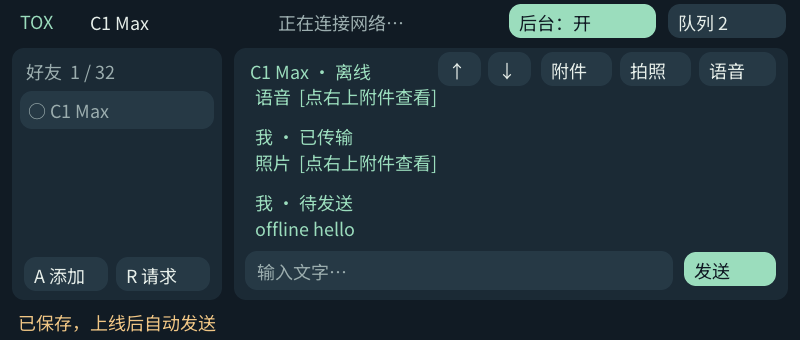
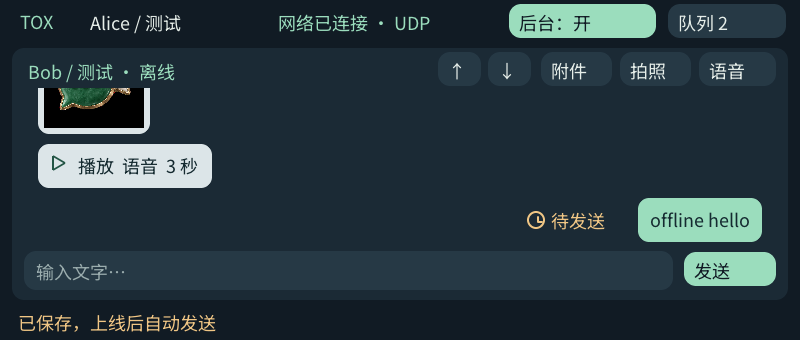
Add Tox chat bubbles, inline media previews and Shift-volume scrolling

diff --git a/tox/src/main.cpp b/tox/src/main.cpp
@@ -22,13 +22,17 @@ constexpr uint32_t bg=0x111b24, surface=0x1b2a35, raised=0x263945, ink=0xe6eee9,
 constexpr uint32_t nav_profile=0x20001,nav_add=0x20002,nav_requests=0x20003,nav_scan=0x20004,nav_zoom1=0x20010,nav_zoom15=0x20011,nav_zoom2=0x20012;
 lv_font_t*font=nullptr;
 std::unique_ptr<chat::Session>engine;
-std::unique_ptr<chat::Media>media;
+std::unique_ptr<chat::Media>media,inline_audio;
+struct BubblePreview {chat::Preview info;lv_image_dsc_t image{};};
+std::map<std::string,BubblePreview>previews;
+lv_obj_t*chat_history=nullptr;int chat_scroll=-1;unsigned rendered_offset=0;
+bool scroll_shortcuts=false;
 lv_image_dsc_t media_descriptor{};lv_obj_t*media_image=nullptr;
 size_t file_index=0,queue_index=0;int queue_confirm=0;uint64_t queue_target=0;
-constexpr uint32_t nav_background=0x20100,nav_photo=0x20101,nav_voice=0x20102,nav_files=0x20103,nav_capture=0x20104,nav_play=0x20105,nav_retry=0x20106,nav_queue=0x20107,nav_cancel_queued=0x20108,nav_resend=0x20109,nav_queue_yes=0x2010a,nav_queue_no=0x2010b,nav_queue_row=0x21100,nav_file_row=0x21000;
+constexpr uint32_t nav_background=0x20100,nav_photo=0x20101,nav_voice=0x20102,nav_files=0x20103,nav_capture=0x20104,nav_play=0x20105,nav_retry=0x20106,nav_queue=0x20107,nav_cancel_queued=0x20108,nav_resend=0x20109,nav_queue_yes=0x2010a,nav_queue_no=0x2010b,nav_queue_row=0x21100,nav_bubble=0x21200,nav_file_row=0x21000;
 chat::Snapshot view;
 enum class Page { Friends, Chat, Add, Profile, Rename, Requests, Delete, Scan, Files, Photo, Voice, Attachment, Queue };
-Page page=Page::Friends,scan_origin=Page::Friends;
+Page page=Page::Friends,scan_origin=Page::Friends,attachment_origin=Page::Files;
 std::unique_ptr<chat::Scanner>scanner;
 chat::ScanView scan_view;
 chat::QrImage own_qr;
@@ -53,18 +57,50 @@ void label(lv_obj_t*p,const std::string&t,int x,int y,int w,int h,uint32_t color
     auto*o=lv_label_create(p);lv_label_set_text(o,t.c_str());lv_label_set_long_mode(o,LV_LABEL_LONG_MODE_WRAP);lv_obj_set_pos(o,x,y);lv_obj_set_size(o,w,h);lv_obj_set_style_text_color(o,lv_color_hex(color),0);lv_obj_set_style_text_font(o,font?font:LV_FONT_DEFAULT,0);
 }
 lv_obj_t*box(int x,int y,int w,int h,uint32_t color=surface){auto*o=lv_obj_create(lv_screen_active());lv_obj_remove_style_all(o);lv_obj_set_pos(o,x,y);lv_obj_set_size(o,w,h);lv_obj_set_style_bg_color(o,lv_color_hex(color),0);lv_obj_set_style_bg_opa(o,LV_OPA_COVER,0);lv_obj_set_style_radius(o,12,0);lv_obj_remove_flag(o,LV_OBJ_FLAG_SCROLLABLE);return o;}
-void button(const char*t,int x,int y,int w,uint32_t k,bool active=false){
+lv_obj_t* button(const char*t,int x,int y,int w,uint32_t k,bool active=false){
     auto*b=box(x,y,w,34,active?accent:raised);lv_obj_add_flag(b,LV_OBJ_FLAG_CLICKABLE);label(b,t,10,6,w-18,23,active?bg:ink);
-    lv_obj_add_event_cb(b,[](lv_event_t*e){key(uint32_t(reinterpret_cast<uintptr_t>(lv_event_get_user_data(e))));},LV_EVENT_CLICKED,reinterpret_cast<void*>(uintptr_t(k)));
+    lv_obj_add_event_cb(b,[](lv_event_t*e){key(uint32_t(reinterpret_cast<uintptr_t>(lv_event_get_user_data(e))));},LV_EVENT_CLICKED,reinterpret_cast<void*>(uintptr_t(k)));return b;
 }
 const chat::Friend*friend_now(){for(auto&f:view.friends)if(f.number==selected)return &f;return nullptr;}
 std::string tail(const std::string&s,size_t bytes){if(s.size()<=bytes)return s;size_t at=s.size()-bytes;while(at<s.size()&&(static_cast<unsigned char>(s[at])&0xc0)==0x80)at++;return "…"+s.substr(at);}
 std::string transfer_status(const std::string&s){if(s=="queued")return "待发送";if(s=="sending")return "发送中";if(s=="unconfirmed")return "未确认";if(s=="complete")return "已传输";if(s=="cancelled")return "已取消";if(s=="failed")return "失败";if(s=="waiting")return "等待接受";if(s=="receiving")return "接收中";return "未完成";}
 std::vector<const chat::Message*> queue_items(){std::vector<const chat::Message*>v;for(auto&m:view.messages)if(m.mine&&m.id&&(m.state=="queued"||m.state=="unconfirmed"||m.state=="failed"))v.push_back(&m);return v;}
 std::string text_status(const std::string&s){if(s=="delivered")return "已送达";if(s=="sent")return "已发出";return transfer_status(s);}
+void status_icon(lv_obj_t*parent,const std::string&state,int x,int y,bool light=false){
+    const bool delivered=state=="delivered",waiting=state=="queued"||state=="sending"||state=="waiting"||state=="receiving";
+    const bool warning=state=="unconfirmed"||state=="failed";
+    const uint32_t color=delivered?0x43c783:waiting||warning?(light?0x805400:amber):(light?0x455b61:muted);
+    auto*icon=lv_obj_create(parent);lv_obj_remove_style_all(icon);lv_obj_set_pos(icon,x,y);lv_obj_set_size(icon,18,18);lv_obj_remove_flag(icon,LV_OBJ_FLAG_SCROLLABLE);
+    lv_obj_set_style_radius(icon,9,0);
+    if(delivered){lv_obj_set_style_bg_color(icon,lv_color_hex(color),0);lv_obj_set_style_bg_opa(icon,LV_OPA_COVER,0);}
+    else if(waiting||warning||state=="cancelled"){lv_obj_set_style_border_width(icon,2,0);lv_obj_set_style_border_color(icon,lv_color_hex(color),0);}
+    static const lv_point_precise_t clock_hand[]={{9,4},{9,9},{13,9}},check[]={{4,9},{7,12},{14,5}},dash[]={{5,9},{13,9}},bang[]={{9,4},{9,10}},dot[]={{9,13},{9,14}};
+    auto line=[&](const lv_point_precise_t*points,unsigned count){auto*o=lv_line_create(icon);lv_line_set_points(o,points,count);lv_obj_set_style_line_width(o,2,0);lv_obj_set_style_line_rounded(o,true,0);lv_obj_set_style_line_color(o,lv_color_hex(delivered?0x10291d:color),0);};
+    if(waiting)line(clock_hand,3);else if(warning){line(bang,2);line(dot,2);}else if(state=="cancelled")line(dash,2);else line(check,3);
+}
+int chat_bubble(lv_obj_t*parent,const chat::Message&m,size_t index,int y,int width){
+    BubblePreview*preview=nullptr;const bool available=!m.file.empty()&&(m.mine||m.state=="complete");
+    if(available){auto it=previews.find(m.file);if(it==previews.end()){BubblePreview p;p.info=chat::preview(c1::data()+"/tox/media",m.file,m.kind);it=previews.emplace(m.file,std::move(p)).first;}preview=&it->second;}
+    bool photo=preview&&m.kind=="photo"&&!preview->info.pixels.empty();
+    bool voice=preview&&m.kind=="voice"&&preview->info.seconds;
+    bool playing=inline_audio&&inline_audio->playing&&inline_audio->file==m.file;
+    const std::string body=photo?"":voice?std::string(playing?"停止":"播放")+"  语音  "+std::to_string(preview->info.seconds)+" 秒":m.text+(m.file.empty()?"":" · 点开查看");
+    lv_point_t size{};lv_text_get_size(&size,body.c_str(),font?font:LV_FONT_DEFAULT,0,3,510,LV_TEXT_FLAG_NONE);
+    const int w=photo?preview->info.width+12:std::clamp<int>(size.x+24+(voice?30:0),58,534),h=photo?preview->info.height+12:std::max<int>(size.y+18,40),x=m.mine?width-w-14:14;
+    const uint32_t fill=m.mine?0x9bddbd:0xdce5e8;
+    auto*b=lv_obj_create(parent);lv_obj_remove_style_all(b);lv_obj_set_pos(b,x,y);lv_obj_set_size(b,w,h);lv_obj_remove_flag(b,LV_OBJ_FLAG_SCROLLABLE);lv_obj_set_style_bg_opa(b,LV_OPA_COVER,0);lv_obj_set_style_bg_color(b,lv_color_hex(fill),0);lv_obj_set_style_radius(b,11,0);
+    if(photo){auto&i=preview->image;if(!i.data){i.header.magic=LV_IMAGE_HEADER_MAGIC;i.header.cf=LV_COLOR_FORMAT_ARGB8888;i.header.w=preview->info.width;i.header.h=preview->info.height;i.header.stride=i.header.w*4;i.data_size=preview->info.pixels.size()*4;i.data=reinterpret_cast<const uint8_t*>(preview->info.pixels.data());}auto*o=lv_image_create(b);lv_obj_set_pos(o,6,6);lv_image_set_src(o,&i);}
+    else{label(b,body,voice?40:12,9,w-(voice?52:24),h-14,0x152a30);lv_obj_set_style_text_line_space(lv_obj_get_child(b,0),3,0);
+        if(voice){static const lv_point_precise_t play[]={{3,2},{3,16},{15,9},{3,2}},pause1[]={{4,3},{4,15}},pause2[]={{12,3},{12,15}};auto line=[&](const lv_point_precise_t*p,unsigned n){auto*l=lv_line_create(b);lv_obj_set_pos(l,12,10);lv_line_set_points(l,p,n);lv_obj_set_style_line_width(l,playing?3:2,0);lv_obj_set_style_line_color(l,lv_color_hex(0x235545),0);};if(playing){line(pause1,2);line(pause2,2);}else line(play,4);}
+    }
+    if(available){lv_obj_add_flag(b,LV_OBJ_FLAG_CLICKABLE);lv_obj_add_event_cb(b,[](lv_event_t*e){key(nav_bubble+uint32_t(reinterpret_cast<uintptr_t>(lv_event_get_user_data(e))));},LV_EVENT_CLICKED,reinterpret_cast<void*>(index));}
+    if(m.mine){int sx=x-111,sy=y+(h-24)/2;status_icon(parent,m.state,sx,sy+3);label(parent,text_status(m.state),sx+24,sy,83,26,m.state=="delivered"?0x43c783:m.state=="queued"||m.state=="unconfirmed"||m.state=="failed"?amber:muted);}
+    return y+h+10;
+}
+
 void erase_utf8(std::string&s){if(s.empty())return;size_t n=s.size()-1;while(n>0&&(static_cast<unsigned char>(s[n])&0xc0)==0x80)n--;s.erase(n);}
 void submit(chat::Command c){if(pending)return;c.token=++token;pending=c.token;pending_action=c.action;if(!engine->submit(c)){pending=0;notice="操作队列繁忙，请稍后再试";}}
-void open_chat(uint32_t n){if(pending)return;selected=n;page=Page::Chat;history_offset=0;engine->submit({chat::Action::Read,n});view=engine->snapshot(selected);paint();}
+void open_chat(uint32_t n){if(pending)return;selected=n;page=Page::Chat;history_offset=0;chat_scroll=-1;engine->submit({chat::Action::Read,n});view=engine->snapshot(selected);paint();}
 void image_source(lv_obj_t*o,lv_image_dsc_t&d,const std::vector<uint32_t>&pixels,unsigned w,unsigned h){
     lv_image_cache_drop(&d);d={};d.header.magic=LV_IMAGE_HEADER_MAGIC;d.header.cf=LV_COLOR_FORMAT_ARGB8888;d.header.w=w;d.header.h=h;d.header.stride=w*4;d.data_size=pixels.size()*4;d.data=reinterpret_cast<const uint8_t*>(pixels.data());lv_image_set_src(o,&d);lv_obj_invalidate(o);
 }
@@ -91,39 +127,44 @@ void sidebar(){
     button("A 添加",24,257,84,nav_add);button("R 请求",116,257,94,nav_requests);
 }
 void paint(){
-    auto*r=lv_screen_active();lv_obj_clean(r);media_image=nullptr;scan_image=nullptr;scan_status=nullptr;scan_focus=nullptr;lv_obj_remove_flag(r,LV_OBJ_FLAG_SCROLLABLE);lv_obj_set_style_bg_color(r,lv_color_hex(bg),0);lv_obj_set_style_text_font(r,font?font:LV_FONT_DEFAULT,0);
+    const bool shortcuts=page==Page::Chat;
+    if(shortcuts!=scroll_shortcuts){
+        if(shortcuts){try{c1::save_private("/tmp/c1max-tox-scroll.pid",std::to_string(getpid())+"\n");scroll_shortcuts=true;}catch(...){notice="滚动快捷键注册失败，请重新打开应用";}}
+        else{unlink("/tmp/c1max-tox-scroll.pid");scroll_shortcuts=false;}
+    }
+    auto*r=lv_screen_active();lv_obj_clean(r);chat_history=nullptr;
+    if(page!=Page::Chat)inline_audio.reset();
+    if(previews.size()>8){for(auto&[file,p]:previews)lv_image_cache_drop(&p.image);previews.clear();}media_image=nullptr;scan_image=nullptr;scan_status=nullptr;scan_focus=nullptr;lv_obj_remove_flag(r,LV_OBJ_FLAG_SCROLLABLE);lv_obj_set_style_bg_color(r,lv_color_hex(bg),0);lv_obj_set_style_text_font(r,font?font:LV_FONT_DEFAULT,0);
     label(r,"TOX",20,9,66,28,accent);label(r,view.name,90,10,182,24);
     label(r,view.status,278,10,225,24,view.online?accent:muted);
     button(view.background?"后台：开":"后台：关",509,4,147,nav_background,view.background);
     if(page==Page::Chat||page==Page::Queue)button(("队列 "+std::to_string(queue_items().size())).c_str(),668,4,118,nav_queue,page==Page::Queue);else button("我的 ID",668,4,118,nav_profile);
     std::string footer;
     if(page==Page::Friends||page==Page::Chat){
-        sidebar();box(234,48,554,252);
         auto*f=friend_now();
         if(page==Page::Friends||!f){
+            sidebar();box(234,48,554,252);
             label(r,"与好友直接对话",256,70,490,28,accent);
             label(r,"添加 Tox ID，或接受收到的好友请求。\n使用实体键盘输入，回车发送文字。\n离线消息先保存，上线后自动发送。",256,117,490,95);
             label(r,"好友请求 "+std::to_string(view.requests.size())+" · 待发送 "+std::to_string(view.queued),256,220,240,25,muted);button("扫码添加",594,243,172,nav_scan);
             footer="W/S 选好友  ·  回车聊天  ·  I 我的 ID  ·  电源返回菜单";
         }else{
-            label(r,f->name+(f->online?" · 在线":" · 离线"),250,59,188,25,accent);
+            box(12,48,776,252);label(r,f->name+(f->online?" · 在线":" · 离线"),28,59,392,25,accent);
             button("↑",438,52,43,LV_KEY_UP);button("↓",488,52,43,LV_KEY_DOWN);
             button("附件",541,52,71,nav_files);button("拍照",620,52,71,nav_photo);button("语音",699,52,77,nav_voice);
             // A bounded, scrollable LVGL history avoids allocating a widget for
             // every stored message. At most six messages are rendered at once.
-            auto*history=box(245,88,532,154,surface);lv_obj_add_flag(history,LV_OBJ_FLAG_SCROLLABLE);lv_obj_set_scroll_dir(history,LV_DIR_VER);
+            auto*history=box(24,88,752,154,surface);lv_obj_add_flag(history,LV_OBJ_FLAG_SCROLLABLE);lv_obj_set_scroll_dir(history,LV_DIR_VER);
             size_t end=view.messages.size()>history_offset?view.messages.size()-history_offset:0;
             size_t begin=end>6?end-6:0;int y=4;
-            if(!end)label(history,"还没有消息，输入第一句话吧。",10,40,506,50,muted);
-            for(size_t i=begin;i<end;i++){
-                auto&m=view.messages[i];std::string prefix=m.mine?"我":"好友";
-                if(!m.file.empty())prefix+=" · "+transfer_status(m.state);
-                else if(m.mine)prefix+=" · "+text_status(m.state);
-                auto*o=lv_label_create(history);lv_label_set_text(o,(prefix+"\n"+m.text+(m.file.empty()?"":"  [点右上附件查看]")).c_str());lv_label_set_long_mode(o,LV_LABEL_LONG_MODE_WRAP);lv_obj_set_pos(o,10,y);lv_obj_set_width(o,505);lv_obj_set_style_text_font(o,font?font:LV_FONT_DEFAULT,0);lv_obj_set_style_text_color(o,lv_color_hex(m.mine?accent:ink),0);lv_obj_update_layout(o);y+=lv_obj_get_height(o)+14;
-            }
-            lv_obj_update_layout(history);if(!history_offset)lv_obj_scroll_to_y(history,lv_obj_get_scroll_bottom(history),LV_ANIM_OFF);
-            box(245,251,428,39,raised);label(r,drafts[selected].empty()?"输入文字…":tail(drafts[selected],92)+"_",257,259,401,26,drafts[selected].empty()?muted:ink);button(pending?"保存中":"发送",684,252,92,LV_KEY_ENTER,true);
-            footer="回车发文字  ·  拍摄键拍照  ·  点语音录音  ·  附件查看 / 接收";
+            if(!end)label(history,"还没有消息，输入第一句话吧。",10,40,726,50,muted);
+            for(size_t i=begin;i<end;i++)y=chat_bubble(history,view.messages[i],i,y,752);
+            lv_obj_update_layout(history);chat_history=history;
+            if(rendered_offset!=history_offset)chat_scroll=-1;rendered_offset=history_offset;
+            lv_obj_scroll_to_y(history,chat_scroll<0?lv_obj_get_scroll_bottom(history):chat_scroll,LV_ANIM_OFF);
+            lv_obj_add_event_cb(history,[](lv_event_t*e){auto*o=static_cast<lv_obj_t*>(lv_event_get_target(e));chat_scroll=history_offset==0&&lv_obj_get_scroll_bottom(o)<=2?-1:lv_obj_get_scroll_y(o);},LV_EVENT_SCROLL,nullptr);
+            box(24,251,649,39,raised);label(r,drafts[selected].empty()?"输入文字…":tail(drafts[selected],132)+"_",36,259,620,26,drafts[selected].empty()?muted:ink);button(pending?"保存中":"发送",684,252,92,LV_KEY_ENTER,true);
+            footer="Shift + 音量＋/− 滚动  ·  黄钟待发 / 灰勾已发出 / 绿勾已送达（非已读）";
         }
     }else if(page==Page::Queue){
         box(12,48,776,252);auto rows=queue_items();if(queue_index>=rows.size())queue_index=rows.empty()?0:rows.size()-1;
@@ -133,7 +174,7 @@ void paint(){
             button("确认",428,249,160,nav_queue_yes,true);button("返回",604,249,164,nav_queue_no);
         }else{
             size_t start=queue_index/4*4;int y=91;
-            for(size_t i=start;i<rows.size()&&i<start+4;i++){auto&m=*rows[i];button((text_status(m.state)+" · "+m.text).c_str(),27,y,746,nav_queue_row+uint32_t(i),i==queue_index);y+=37;}
+            for(size_t i=start;i<rows.size()&&i<start+4;i++){auto&m=*rows[i];auto*b=button((text_status(m.state)+" · "+m.text).c_str(),27,y,746,nav_queue_row+uint32_t(i),i==queue_index);auto*l=lv_obj_get_child(b,0);lv_obj_set_pos(l,38,6);lv_obj_set_width(l,694);status_icon(b,m.state,11,8,i==queue_index);y+=37;}
             if(rows.empty())label(r,"没有待发送的消息。\n好友离线时发送的文字、照片和语音会保存在这里。",30,120,727,79,muted);
             else{
                 auto&m=*rows[queue_index];button(m.state=="queued"?"取消待发":"不再重发",27,255,162,nav_cancel_queued);
@@ -158,7 +199,7 @@ void paint(){
             if(page!=Page::Attachment&&!media->recording&&!media->camera)button("重新拍摄 / 录音",534,224,234,nav_retry);
             button("返回",534,265,234,screen::KEY_EXIT);
         }
-        footer=page==Page::Attachment?"回车播放 / 暂停语音  ·  返回到附件":"拍好或录完后，按确认发送才会传给好友";
+        footer=page==Page::Attachment?(std::string(media&&media->kind=="voice"?"回车播放 / 暂停语音  ·  ":"")+(attachment_origin==Page::Chat?"返回聊天":"返回附件")):"拍好或录完后，按确认发送才会传给好友";
     }else if(page==Page::Files){
         box(12,48,776,252);label(r,"照片与语音 · W/S 选择，回车查看 / 接受",28,58,740,26,accent);
         size_t total=view.transfers.size();for(auto&m:view.messages)if(!m.file.empty())total++;
@@ -215,7 +256,14 @@ void key(uint32_t k){
     dismissed_error=view.error_count;
     if(k==screen::KEY_HOME){screen::quit=true;return;}
     if(k==screen::KEY_MODE)return;
-    if(k==screen::KEY_EXIT){if(pending)return;if(page==Page::Photo||page==Page::Voice||page==Page::Attachment){bool attachment=page==Page::Attachment;stop_media();page=attachment?Page::Files:Page::Chat;}else if(page==Page::Files||page==Page::Queue){if(page==Page::Queue&&queue_confirm)queue_confirm=0;else page=Page::Chat;}else if(page==Page::Scan){stop_scan();page=scan_origin;}else page=Page::Friends;notice.clear();paint();return;}
+    if(k==screen::KEY_FONT_UP||k==screen::KEY_FONT_DOWN){
+        if(page==Page::Chat&&chat_history){bool up=k==screen::KEY_FONT_UP;
+            if(up&&lv_obj_get_scroll_y(chat_history)>0)lv_obj_scroll_by(chat_history,0,100,LV_ANIM_OFF);
+            else if(!up&&lv_obj_get_scroll_bottom(chat_history)>0)lv_obj_scroll_by(chat_history,0,-100,LV_ANIM_OFF);
+            else{history_offset=up?std::min<unsigned>(view.messages.size()>0?view.messages.size()-1:0,history_offset+3):history_offset>3?history_offset-3:0;chat_scroll=-1;paint();}
+        }return;
+    }
+    if(k==screen::KEY_EXIT){if(pending)return;if(page==Page::Photo||page==Page::Voice||page==Page::Attachment){bool attachment=page==Page::Attachment;stop_media();page=attachment?attachment_origin:Page::Chat;}else if(page==Page::Files||page==Page::Queue){if(page==Page::Queue&&queue_confirm)queue_confirm=0;else page=Page::Chat;}else if(page==Page::Scan){stop_scan();page=scan_origin;}else page=Page::Friends;notice.clear();paint();return;}
     if(pending)return;
     notice.clear();
     if(k==nav_background){submit({chat::Action::Background,0,view.background?"0":"1"});paint();return;}
@@ -235,6 +283,12 @@ void key(uint32_t k){
         paint();return;
     }
     try {
+        if(page==Page::Chat&&k>=nav_bubble&&k<nav_bubble+128){
+            size_t index=k-nav_bubble;if(index<view.messages.size()){auto&m=view.messages[index];if(m.file.empty())return;
+                if(m.kind=="voice"){if(!inline_audio||inline_audio->file!=m.file){inline_audio=std::make_unique<chat::Media>(c1::data()+"/tox/media");inline_audio->load(m.file,m.kind);}inline_audio->play();}
+                else{stop_media();media=std::make_unique<chat::Media>(c1::data()+"/tox/media");media->load(m.file,m.kind);attachment_origin=Page::Chat;page=Page::Attachment;}
+            }paint();return;
+        }
         if((k==nav_photo||k==nav_voice||(k==screen::KEY_SYMBOL&&page==Page::Chat))&&friend_now()){
             stop_scan();stop_media();media=std::make_unique<chat::Media>(c1::data()+"/tox/media");
             if(k==nav_voice){page=Page::Voice;media->record();}else{page=Page::Photo;media->open_camera();}paint();return;
@@ -258,7 +312,7 @@ void key(uint32_t k){
                 else if(file_index<view.transfers.size()){auto&t=view.transfers[file_index];
                     if(k==LV_KEY_BACKSPACE)submit({chat::Action::CancelFile,selected,std::to_string(t.id)});
                     else if(k==LV_KEY_ENTER&&!t.mine&&t.state=="offered")submit({chat::Action::AcceptFile,selected,std::to_string(t.id)});
-                }else if(k==LV_KEY_ENTER){size_t index=file_index-view.transfers.size();for(auto it=view.messages.rbegin();it!=view.messages.rend();++it)if(!it->file.empty()&&index--==0){stop_media();media=std::make_unique<chat::Media>(c1::data()+"/tox/media");media->load(it->file,it->kind);page=Page::Attachment;break;}}
+                }else if(k==LV_KEY_ENTER){size_t index=file_index-view.transfers.size();for(auto it=view.messages.rbegin();it!=view.messages.rend();++it)if(!it->file.empty()&&index--==0){stop_media();media=std::make_unique<chat::Media>(c1::data()+"/tox/media");media->load(it->file,it->kind);attachment_origin=Page::Files;page=Page::Attachment;break;}}
             }paint();return;
         }
     }catch(const std::exception&e){notice=e.what();paint();return;}
@@ -286,8 +340,8 @@ void key(uint32_t k){
     }else if(page==Page::Chat){
         if(k==LV_KEY_BACKSPACE)erase_utf8(drafts[selected]);
         else if(k==LV_KEY_ENTER){if(!drafts[selected].empty())submit({chat::Action::Send,selected,drafts[selected]});}
-        else if(k==LV_KEY_UP)history_offset=std::min<unsigned>(view.messages.size()>0?view.messages.size()-1:0,history_offset+3);
-        else if(k==LV_KEY_DOWN)history_offset=history_offset>3?history_offset-3:0;
+        else if(k==LV_KEY_UP){history_offset=std::min<unsigned>(view.messages.size()>0?view.messages.size()-1:0,history_offset+3);chat_scroll=-1;}
+        else if(k==LV_KEY_DOWN){history_offset=history_offset>3?history_offset-3:0;chat_scroll=-1;}
         else if(k>=32&&k<127&&drafts[selected].size()<1024)drafts[selected]+=char(k);
     }else if(page==Page::Delete){if(k==LV_KEY_ENTER)submit({chat::Action::Delete,selected});}
     else if(page==Page::Profile){if(k=='n'||k=='N'){page=Page::Rename;edit=view.name;}}
@@ -324,7 +378,7 @@ int main(int argc,char**argv){
         if(screen::tick()-last>=100){last=screen::tick();auto next=engine->snapshot(selected);bool dirty=next.revision!=view.revision;view=std::move(next);
             if(selected==UINT32_MAX&&!view.friends.empty())selected=view.friends.front().number;
             if(pending&&view.completed==pending){pending=0;dirty=true;if(view.command_ok){
-                if(pending_action==chat::Action::Send){drafts[selected].clear();history_offset=0;notice=view.background?"已保存，上线后自动发送":"已保存；离开应用后继续补发需开启后台";}
+                if(pending_action==chat::Action::Send){drafts[selected].clear();history_offset=0;chat_scroll=-1;notice=view.background?"已保存，上线后自动发送":"已保存；离开应用后继续补发需开启后台";}
                 else if(pending_action==chat::Action::SendFile){stop_media();page=Page::Files;file_index=0;notice="附件已保存；上线后自动发出请求，仍需对方接受";}
                 else if(pending_action==chat::Action::Background){notice=view.background?"已开启后台：退出后继续收信；重启后需打开一次 Tox":"已关闭后台：退出后停止收信";}
                 else if(pending_action==chat::Action::CancelQueued)notice="已取消自动发送，聊天记录保留";
@@ -354,8 +408,9 @@ int main(int argc,char**argv){
                 if(was_recording!=media->recording||old_seconds!=media->seconds||was_ready!=media->ready)dirty=true;
                 if(media->camera&&!media->pixels.empty()){if(media_image)image_source(media_image,media_descriptor,media->pixels,media->width,media->height);else dirty=true;}
             }catch(const std::exception&e){notice=e.what();dirty=true;}}
+            if(inline_audio){try{bool was=inline_audio->playing;inline_audio->poll();if(was!=inline_audio->playing)dirty=true;}catch(const std::exception&e){notice=e.what();inline_audio.reset();dirty=true;}}
             if(dirty)paint();
         }usleep(10000);
     }
-    stop_scan();stop_media();engine.reset();lv_image_cache_drop(&qr_descriptor);lv_image_cache_drop(&scan_descriptor);lv_obj_clean(lv_screen_active());lv_obj_set_style_text_font(lv_screen_active(),LV_FONT_DEFAULT,0);if(font)lv_tiny_ttf_destroy(font);screen::close();return 0;
+    if(scroll_shortcuts)unlink("/tmp/c1max-tox-scroll.pid");inline_audio.reset();stop_scan();stop_media();engine.reset();lv_image_cache_drop(&qr_descriptor);lv_image_cache_drop(&scan_descriptor);lv_obj_clean(lv_screen_active());for(auto&[file,p]:previews)lv_image_cache_drop(&p.image);previews.clear();lv_obj_set_style_text_font(lv_screen_active(),LV_FONT_DEFAULT,0);if(font)lv_tiny_ttf_destroy(font);screen::close();return 0;
 }

diff --git a/tox/src/media.cpp b/tox/src/media.cpp
@@ -143,15 +143,24 @@ std::string fresh_media(const std::string&folder,const char*ext){
     uint64_t size=0;DIR*d=opendir(folder.c_str());if(!d)throw std::runtime_error("附件目录不可用");while(auto*e=readdir(d)){struct stat s{};if(!lstat((folder+"/"+e->d_name).c_str(),&s)&&S_ISREG(s.st_mode))size+=s.st_size;}closedir(d);if(size>60*1024*1024)throw std::runtime_error("附件已占用 60 MB，请先清理");
     std::string p=folder+"/capture-XXXXXX";std::vector<char>b(p.begin(),p.end());b.push_back(0);int fd=mkstemp(b.data());if(fd<0)throw std::runtime_error("无法创建附件");close(fd);p=b.data();std::string final=p+ext;if(rename(p.c_str(),final.c_str())){unlink(p.c_str());throw std::runtime_error("无法创建附件");}return final.substr(folder.size()+1);
 }
-void check_voice(const std::string&path){
+unsigned check_voice(const std::string&path){
     auto data=c1::read_file(path,4*1024*1024);if(data.size()<44||data.compare(0,4,"RIFF")||data.compare(8,4,"WAVE"))throw std::runtime_error("录音不是 WAV 音频");
     auto le16=[&](size_t p){return uint16_t(uint8_t(data[p])|(uint16_t(uint8_t(data[p+1]))<<8));};auto le32=[&](size_t p){return uint32_t(le16(p))|(uint32_t(le16(p+2))<<16);};
-    bool fmt=false,pcm=false;uint32_t byte_rate=0;
+    bool fmt=false,pcm=false;uint32_t byte_rate=0,duration=0;
     for(size_t p=12;p+8<=data.size();){uint32_t n=le32(p+4);if(n>data.size()-p-8)throw std::runtime_error("录音数据不完整");
         if(data.compare(p,4,"fmt ")==0){if(n<16||le16(p+8)!=1||le16(p+10)<1||le16(p+10)>2||le32(p+12)<8000||le32(p+12)>48000||le16(p+22)!=16)throw std::runtime_error("仅支持 8–48 kHz、16 位 PCM WAV");byte_rate=le32(p+16);if(byte_rate!=le32(p+12)*le16(p+10)*2)throw std::runtime_error("无效 WAV 采样格式");fmt=true;}
-        if(data.compare(p,4,"data")==0){if(!fmt||n<1600||n>byte_rate*120)throw std::runtime_error("语音过短或超过两分钟");pcm=true;}p+=8+n+(n&1);
-    }if(!pcm)throw std::runtime_error("录音没有有效声音数据");
+        if(data.compare(p,4,"data")==0){if(!fmt||n<1600||n>byte_rate*120)throw std::runtime_error("语音过短或超过两分钟");pcm=true;duration=(n+byte_rate-1)/byte_rate;}p+=8+n+(n&1);
+    }if(!pcm)throw std::runtime_error("录音没有有效声音数据");return duration;
 }
+}
+Preview preview(const std::string&folder,const std::string&name,const std::string&kind){
+    Preview p;
+    try{
+        if(name.empty()||name.find("..")!=std::string::npos||name.find_first_not_of("abcdefghijklmnopqrstuvwxyzABCDEFGHIJKLMNOPQRSTUVWXYZ0123456789-_.")!=std::string::npos)throw std::runtime_error("无效附件");
+        if(kind=="photo"){if(!camera::load_photo(folder+"/"+name,168,100,p.pixels,p.width,p.height,p.error))p.pixels.clear();}
+        else if(kind=="voice")p.seconds=check_voice(folder+"/"+name);
+    }catch(const std::exception&e){p.error=e.what();}
+    return p;
 }
 Media::Media(std::string folder):impl_(new Impl(std::move(folder))){mkdir(impl_->folder.c_str(),0700);}
 Media::~Media(){close();}
@@ -170,7 +179,7 @@ void Media::capture(){
 void Media::record(){close();file=fresh_media(impl_->folder,".wav");impl_->temporary=true;kind="voice";impl_->recorder.start({"/usr/bin/arecord","-q","-D","plughw:0,1","-f","S16_LE","-r","16000","-c","1","-t","wav","-d","30",impl_->folder+"/"+file},impl_->folder+"/record.log");recording=true;seconds=0;impl_->started=media_tick();status="正在录音，再按回车结束（最长 30 秒）";}
 void Media::finish_record(){if(recording){impl_->recorder.finish_recording();status="正在保存录音…";}}
 void Media::play(){if(playing){impl_->player.stop();playing=false;return;}if(!ready||kind!="voice")return;check_voice(impl_->folder+"/"+file);impl_->player.start({"/usr/bin/mplayer","-noconfig","all","-quiet","-noconsolecontrols","-nolirc","-nojoystick","-nomouseinput","-vo","null","-ao","media",impl_->folder+"/"+file},impl_->folder+"/play.log");playing=true;}
-void Media::load(const std::string&name,const std::string&type){close();if(name.empty()||name.find("..")!=std::string::npos||name.find_first_not_of("abcdefghijklmnopqrstuvwxyzABCDEFGHIJKLMNOPQRSTUVWXYZ0123456789-_.")!=std::string::npos)throw std::runtime_error("无效的附件");file=name;kind=type;std::string error;if(type=="photo"){if(!camera::load_photo(impl_->folder+"/"+file,460,225,pixels,width,height,error))throw std::runtime_error(error);}else check_voice(impl_->folder+"/"+file);ready=true;status="已接收的附件";}
+void Media::load(const std::string&name,const std::string&type){close();if(name.empty()||name.find("..")!=std::string::npos||name.find_first_not_of("abcdefghijklmnopqrstuvwxyzABCDEFGHIJKLMNOPQRSTUVWXYZ0123456789-_.")!=std::string::npos)throw std::runtime_error("无效的附件");file=name;kind=type;std::string error;if(type=="photo"){if(!camera::load_photo(impl_->folder+"/"+file,460,225,pixels,width,height,error))throw std::runtime_error(error);}else seconds=check_voice(impl_->folder+"/"+file);ready=true;status="已接收的附件";}
 void Media::poll(){
     if(camera&&media_tick()-impl_->last_frame>90){impl_->last_frame=media_tick();std::string error;int r=impl_->camera.frame(error);if(r<0){camera=false;throw std::runtime_error(error);}if(r>0){width=300;height=225;pixels.resize(width*height);auto&c=impl_->camera;unsigned cw=std::min(c.width(),c.height()*4/3),ch=cw*3/4,x0=(c.width()-cw)/2,y0=(c.height()-ch)/2;for(unsigned y=0;y<height;y++)for(unsigned x=0;x<width;x++)pixels[size_t(y)*width+x]=c.pixel(x0+x*cw/width,y0+y*ch/height);}}
     if(recording){seconds=(media_tick()-impl_->started)/1000;if(impl_->recorder.poll()){recording=false;check_voice(impl_->folder+"/"+file);ready=true;status="录音已保存，可以试听后发送";}}

diff --git a/tests/tox/media_preview.cpp b/tests/tox/media_preview.cpp
@@ -1,0 +1,16 @@
+#include "media.hpp"
+#include "net.hpp"
+#include <cassert>
+#include <filesystem>
+#include <iostream>
+int main(int argc,char**argv){
+    assert(argc==3);std::string dir=argv[1];std::filesystem::create_directories(dir);
+    std::string wav="RIFF";auto le32=[&](uint32_t n){for(int i=0;i<4;i++)wav+=char(n>>(i*8));};auto le16=[&](uint16_t n){wav+=char(n);wav+=char(n>>8);};
+    le32(32036);wav+="WAVEfmt ";le32(16);le16(1);le16(1);le32(16000);le32(32000);le16(2);le16(16);wav+="data";le32(32000);wav.append(32000,'\0');
+    c1::save_private(dir+"/voice.wav",wav);auto voice=chat::preview(dir,"voice.wav","voice");assert(voice.error.empty()&&voice.seconds==1&&voice.pixels.empty());
+    c1::save_private(dir+"/bad.wav",wav.substr(0,44));assert(!chat::preview(dir,"bad.wav","voice").error.empty());
+    assert(!chat::preview(dir,"../voice.wav","voice").error.empty());
+    c1::save_private(dir+"/photo.jpg",c1::read_file(argv[2]));auto photo=chat::preview(dir,"photo.jpg","photo");assert(photo.error.empty()&&!photo.pixels.empty()&&photo.width<=168&&photo.height<=100&&photo.pixels.size()==photo.width*photo.height);
+    c1::save_private(dir+"/bad.jpg","broken JPEG");assert(!chat::preview(dir,"bad.jpg","photo").error.empty());
+    std::cout<<"PASS bounded inline thumbnail, WAV duration, incomplete media and path rejection\n";
+}

diff --git a/shared/volume.c b/shared/volume.c
@@ -33,7 +33,8 @@ static int app_font_shortcuts(const char *marker,const char *expected) {
 }
 static int font_shortcuts(void) {
     return app_font_shortcuts("/tmp/c1max-terminal-font.pid","c1max-terminal\n") ||
-           app_font_shortcuts("/tmp/c1max-crosspoint-font.pid","c1max-crosspoin\n");
+           app_font_shortcuts("/tmp/c1max-crosspoint-font.pid","c1max-crosspoin\n") ||
+           app_font_shortcuts("/tmp/c1max-tox-scroll.pid","c1max-tox\n");
 }
 
 static uint64_t milliseconds(void) {

diff --git a/tox/src/media.hpp b/tox/src/media.hpp
@@ -5,6 +5,8 @@
 #include <string>
 #include <vector>
 namespace chat {
+struct Preview { std::vector<uint32_t> pixels; unsigned width=0,height=0,seconds=0; std::string error; };
+Preview preview(const std::string&folder,const std::string&name,const std::string&kind);
 class Media {
     struct Impl;std::unique_ptr<Impl>impl_;
 public:

diff --git a/README.md b/README.md
@@ -41,7 +41,7 @@ apps/
 
 - **[应用商店](appstore/README.md)**：按需安装、单独更新，控制首页显示，卸载时保留个人数据和回退版本。刷新目录不会下载全部应用。
 
-- **[Tox 聊天](tox/README.md)**：基于 c-toxcore 的原生点对点聊天，支持文字、拍照和录音附件、送达回执、本地待发队列、可选后台收发、ID 二维码和摄像头扫码添加。扫码提供数码裁剪与对焦；身份保存保留上一份有效快照。默认构建已包含，身份与聊天数据不随源码发布。
+- **[Tox 聊天](tox/README.md)**：基于 c-toxcore 的原生点对点聊天，支持气泡聊天、图片与语音直接预览、送达回执、本地待发队列、可选后台收发、ID 二维码和摄像头扫码添加。扫码提供数码裁剪与对焦；身份保存保留上一份有效快照。默认构建已包含，身份与聊天数据不随源码发布。
 - **[设置](settings/README.md)**：左侧分类、右侧列表，W/S 选择、A/D 调节，触摸可整行点击并有大号 −／+ 和选项列表。WLAN 非阻塞扫描、连接结果与密码错误提示、隐藏网络、忘记网络；屏幕亮度、自动熄屏、媒体音量、USB ADB/MTP 切换（需确认）、无线调试、电池和本机信息。不提供关机、恢复出厂和蓝牙。
 - **[HID 键鼠](hidpilot/README.md)**：USB HID 与 ADB / MTP 共存，触控板、实体键盘、修饰键和滚轮控制电脑。0.2.0 起专注手动输入。
 - **[MoonPilot AI](moonpilot/README.md)**：独立的 Moonlight / Sunshine 远程操作应用，包含手动添加主机、PIN 配对、桌面预览、模型单步／十步操作，以及可配置 ASR、对话和 TTS。配对协议回归与真机解码通过；真实 Sunshine 串流和 AI 闭环待主机接入后验证。

diff --git a/docs/2026-10-02-tox-outbox-qa.md b/docs/2026-10-02-tox-outbox-qa.md
@@ -12,3 +12,11 @@
 ![真机队列](screenshots/tox-outbox.png)
 
 以上截图来自设备 framebuffer，仅转换像素格式和方向，使用专用测试身份。没有上传身份、实际相机画面、录音或私人聊天。未验证第三方客户端的长期跨网互通，也不宣称断电时恰好一次投递；不确定结果由用户确认是否重发。
+
+## 2026-10-03 气泡与直接预览补验
+
+- 真机两个隔离身份进行实际双向聊天，灰色勾表示 `tox_friend_send_message` 接受发送，绿色圆勾只在收到对应文本回执后出现。为截取短暂的“已发出”，临时暂停专用收件服务，截图后立即恢复，随后确认变成“已送达”。不是伪造消息状态，也不把送达称为已读。
+- 两个测试身份实际传输有效 JPEG 和 3 秒 PCM WAV，接收端仍需接受。聊天气泡自动显示缩略图、语音时长；图片点击放大后返回聊天，语音点击播放／停止，正常 EOF 后恢复播放按钮。
+- 图片测试内容为仓库 Tox 图标转换的 JPEG；语音为生成的静音 WAV，均不含用户相机／录音内容。图片与语音没有自动播放。
+- 电脑端 `tox-media-preview-test` 覆盖缩略图尺寸上限、WAV 时长、截断文件和路径拒绝。气泡仅渲染当前六条记录，缩略图缓存有界；不为所有历史照片持续占用内存。
+- 真机注入 Shift 与音量键组合：向上滚动的聊天区域像素发生变化，反向滚动后恢复原图；音量服务没有产生 `softvolume` 修改记录。普通音量 −／＋各产生一次音量修改；离开聊天页后滚动快捷键标记移除。

diff --git a/docs/screenshots/README.md b/docs/screenshots/README.md
@@ -73,3 +73,5 @@
 ## Tox 离线队列（2026-10-02）
 
 `tox-outbox-chat.png` 和 `tox-outbox.png` 来自词典 framebuffer，展示实体键盘输入的离线消息，以及待发送／未确认项的不同操作。全部使用隔离双身份测试资料，不含真实联系人或私人聊天。截图只转换像素格式并旋转为正常屏幕方向。
+
+2026-10-03 更新为气泡布局，新增 `tox-bubbles.png` 与 `tox-inline-media.png`：两个隔离身份实际通过 Tox 互发消息、JPEG 与 WAV。灰勾截图时暂停了专用收件进程，绿色圆勾来自实际回执；截图后恢复测试进程。附件内容为本仓库 Tox 图标和生成的静音 WAV，未使用私人照片或录音。
